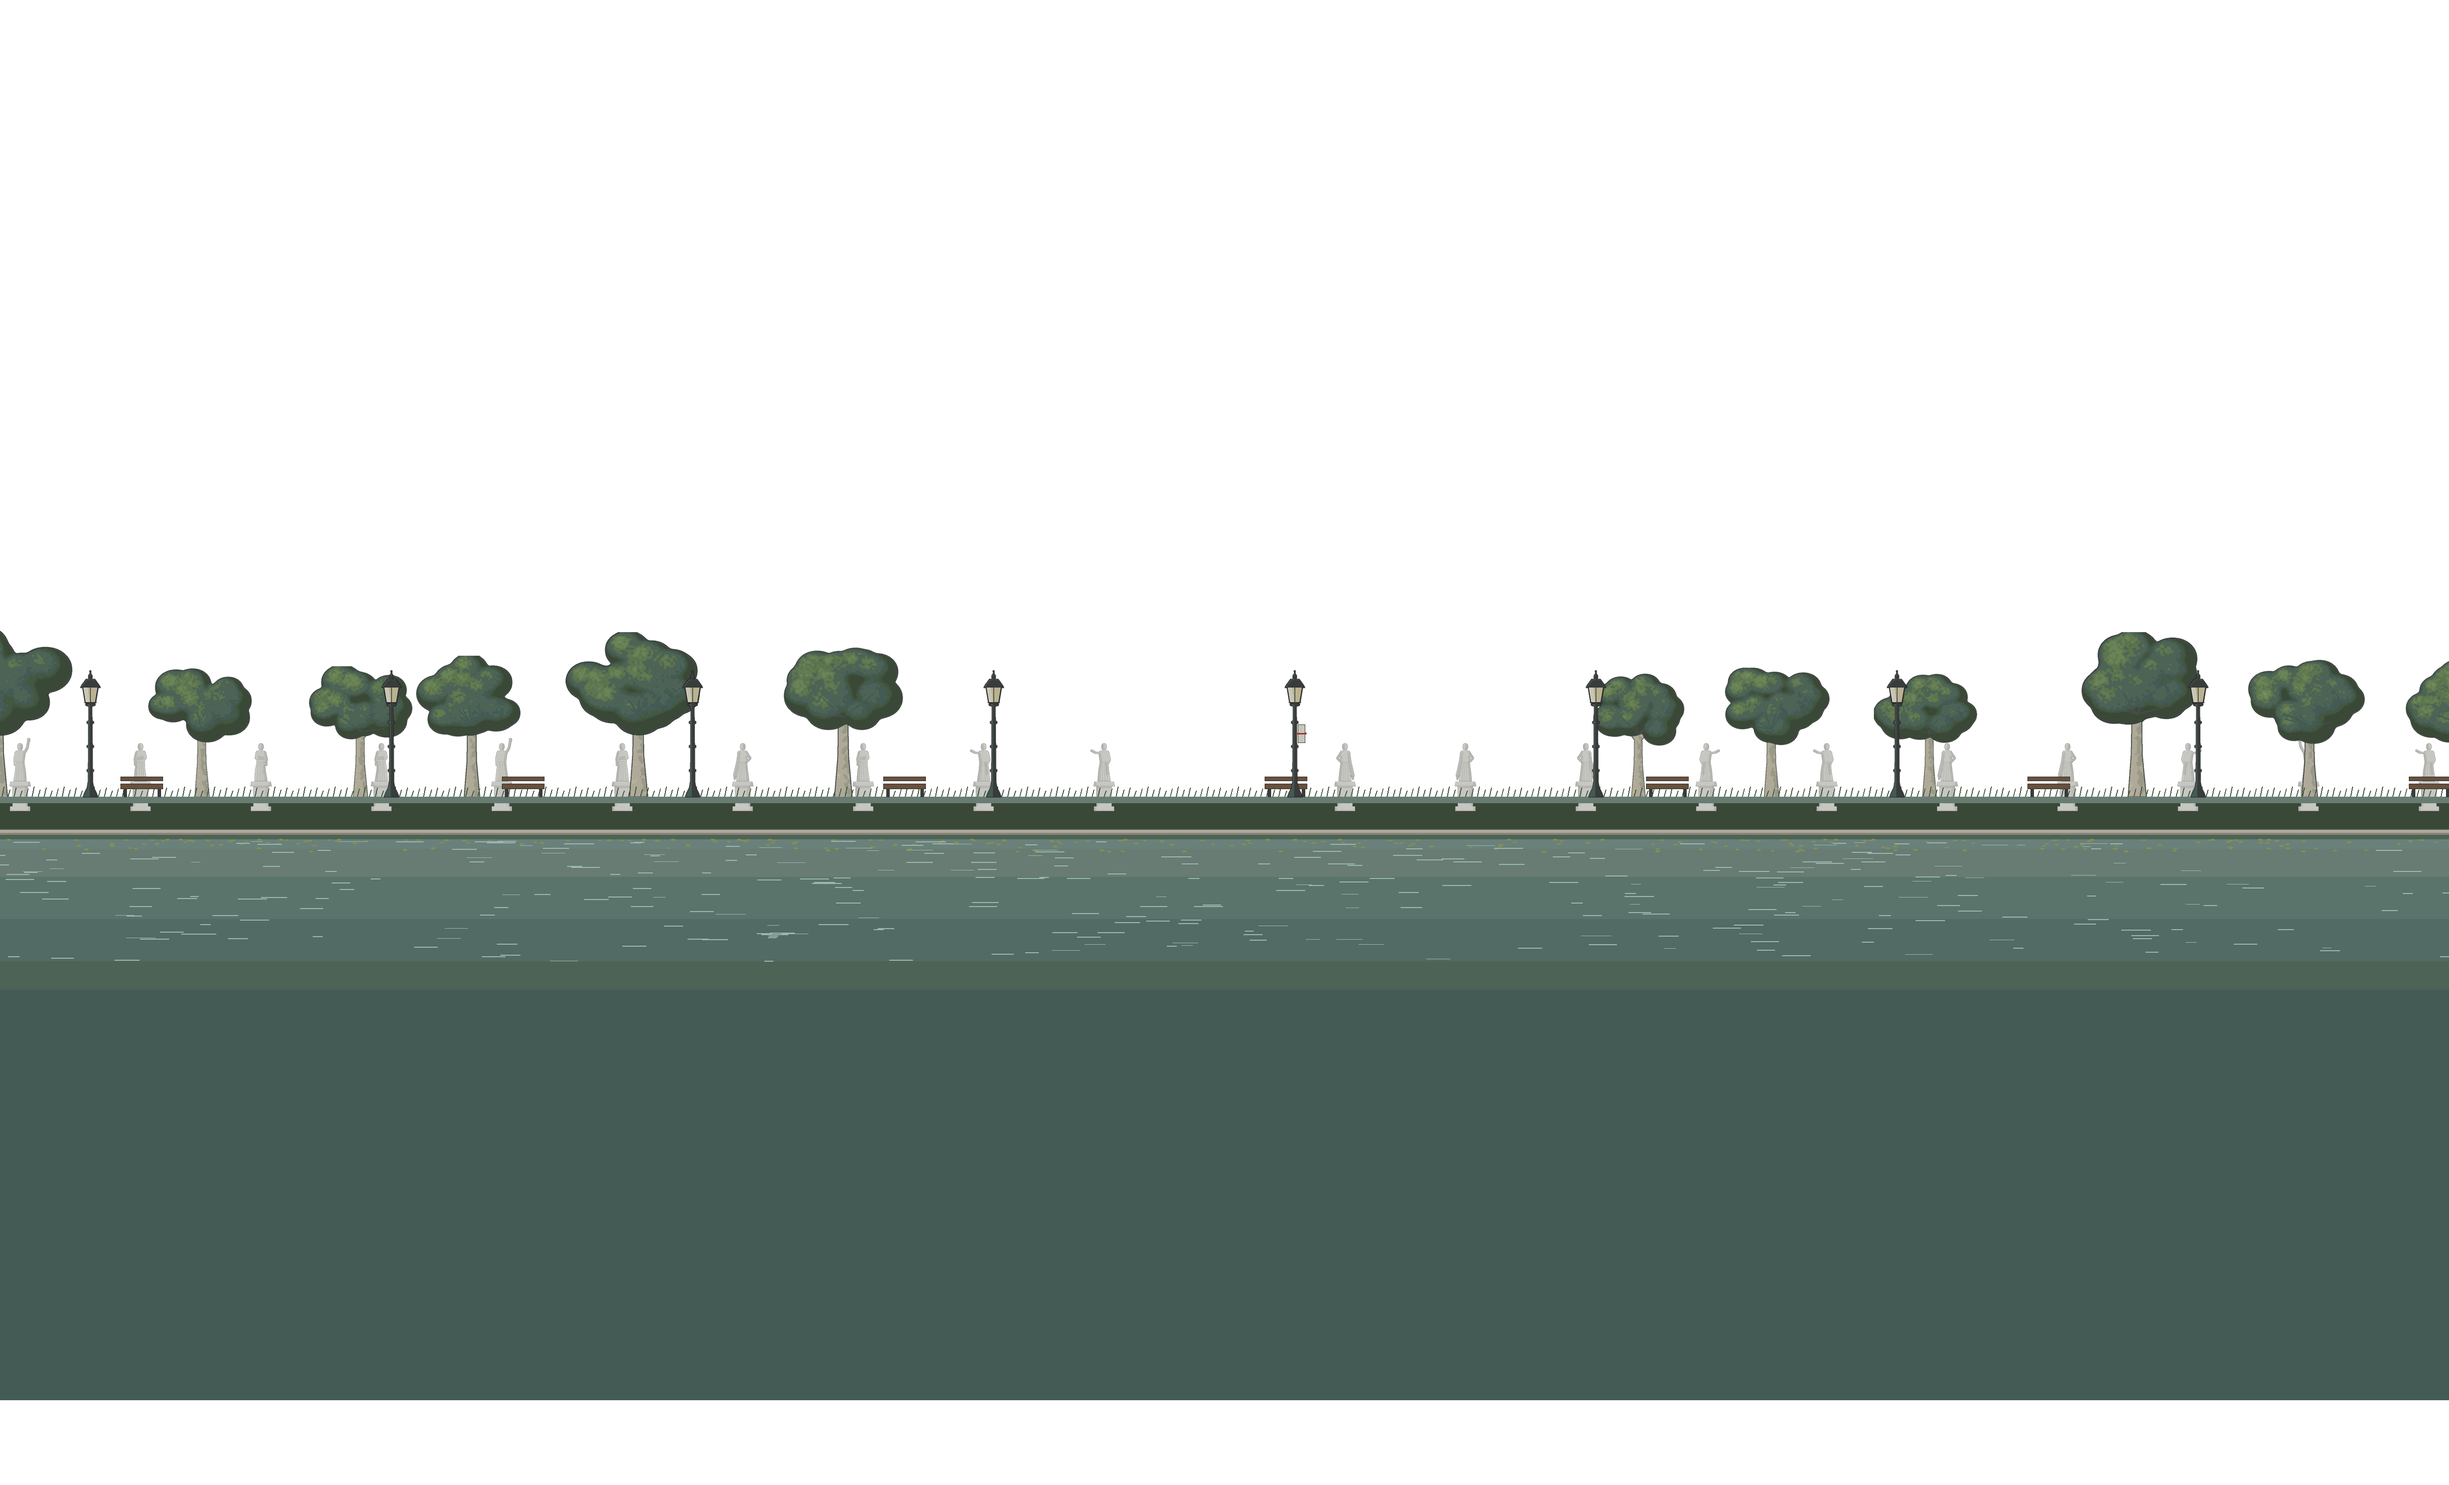
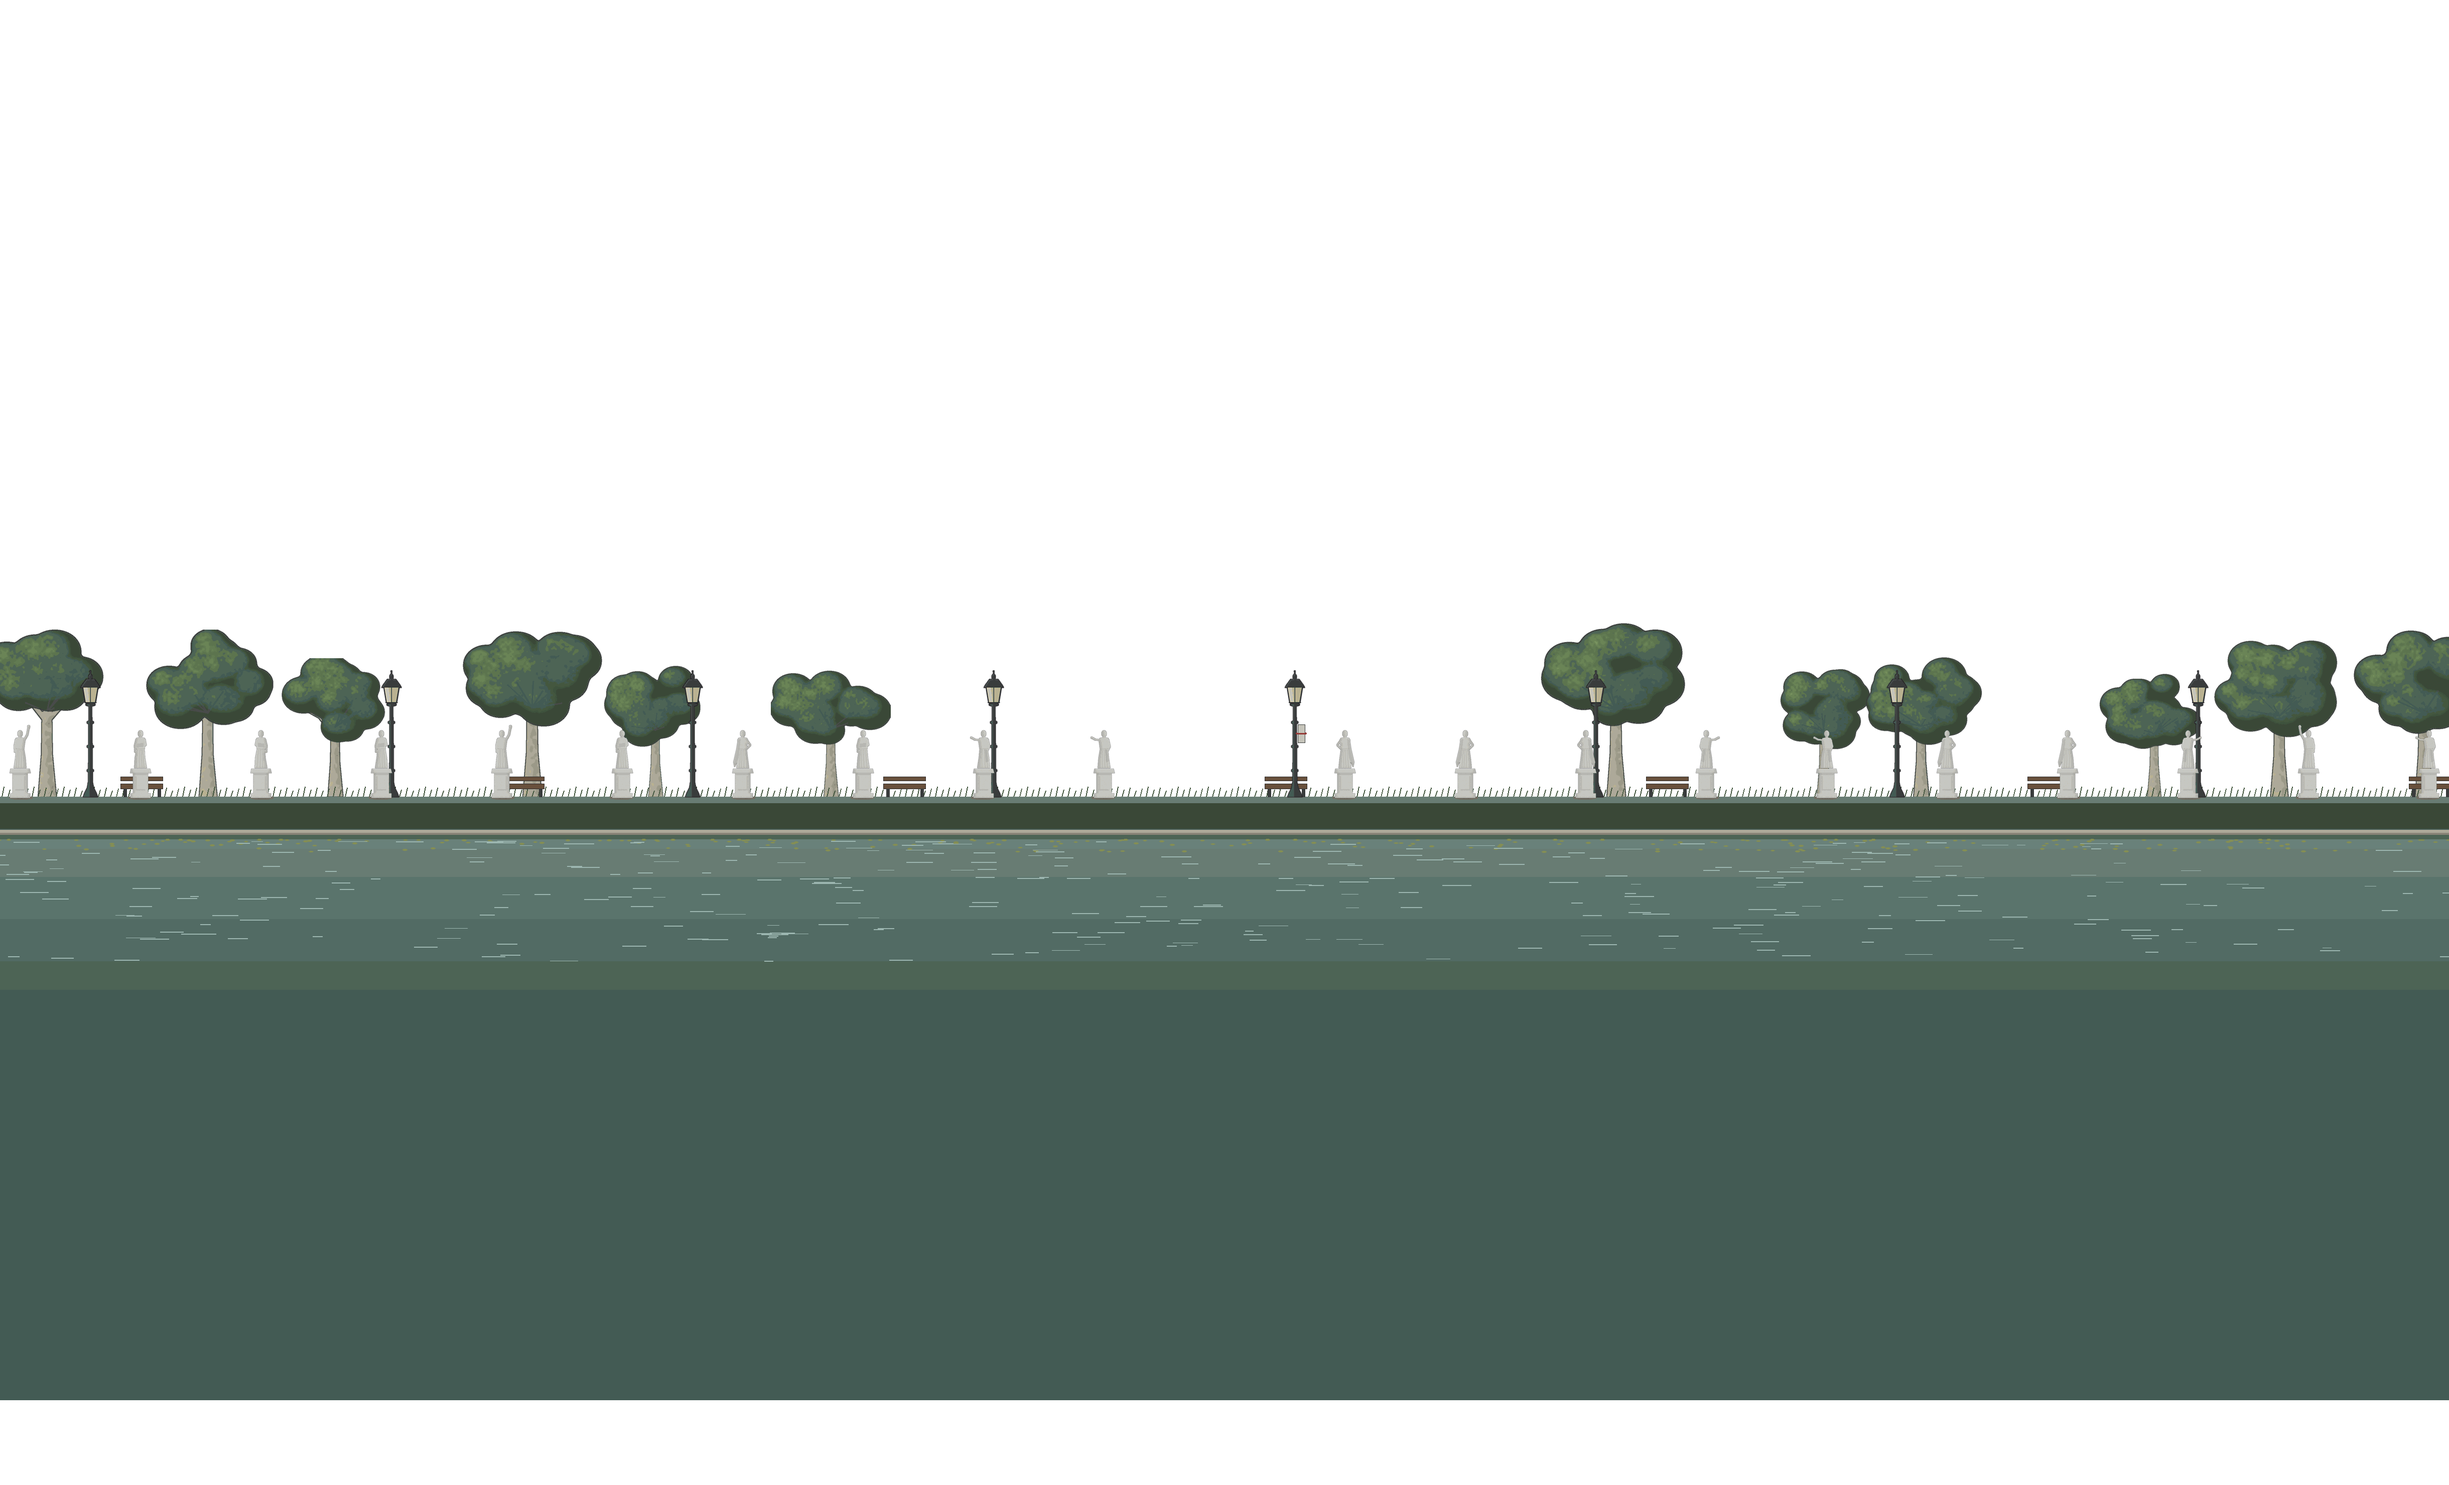
Padova: le statue della seconda fila stanno davanti al vialetto del parco
Il vialetto si disegnava dopo le statue e le tagliava a metà del piedistallo.
Ora le statue stanno sul vialetto, si disegnano per ultime e coprono lampioni,
panchine, passanti e bar, che passano appena dietro lo strato del prato.

Claude-Session: https://claude.ai/code/session_01Bf1d2rFJnp9n4pFf7DSqn4

diff --git a/src/shared/stages.ts b/src/shared/stages.ts
@@ -802,13 +802,13 @@ export const STAGES: Record<string, StageSpec> = {
         // Sulle punte delle lastre delle statue
         pigeons: [{ x: 485, y: 330 }, { x: 1435, y: 330 }, { x: 235, y: 380 }, { x: 1685, y: 380 }],
         // Lo sfondo è salito per stare dietro il piano dell'isola (#300 e #378, LIFT in padova.py): prato e bar 96 px, strada 82
-        walkers: { y: 414, parallax: 0.75, count: 14, umbrellas: true },
+        walkers: { y: 414, parallax: 0.74, count: 14, umbrellas: true }, // appena dietro lo strato del prato: le statue della seconda fila li coprono (#378)
         // Il tram e il traffico passano sulla strada davanti ai portici (#278): più giù le piazze li coprirebbero
         vehicles: { y: 406, parallax: 0.5, everyMs: 23000, kind: "tram" },
         traffic: { y: 406, parallax: 0.5, everyMs: 2600, kinds: ["auto", "auto", "auto", "vespa", "vespa", "furgone", "bici", "bus"] },
         flyers: { y: 90, parallax: 0.6, count: 7 }, // rondini sul Prato, di notte i pipistrelli
         planes: { y: -60, everyMs: 75000 },
-        bar: { x: 120, y: 414, parallax: 0.8, tables: 3, spacing: 72 }, // il chiosco dello spritz sul prato: a terra come panchine e passanti (#378)
+        bar: { x: 120, y: 414, parallax: 0.74, tables: 3, spacing: 72 }, // il chiosco dello spritz sul prato: a terra come panchine e passanti (#378)
         daycycle: {
           cycleMs: 240000, // un giorno intero in 4 minuti: alba, giorno, tramonto e notte
           startAt: 0.8, // si parte poco dopo l'alba

diff --git a/tools/arene/padova.py b/tools/arene/padova.py
@@ -3055,12 +3055,7 @@ def lawn(t):
         y = base - 6 + rng_w.uniform(0, 1) ** 1.3 * 120
         t.line([(x, y), (x + rng_w.uniform(8, 30), y)], fill=(156, 182, 176, 255), width=0.6 + rng_w.random() * 0.6)
     # memmia_vista() non serve più: il canale dietro l'isola con le statue e i ponticelli ora sta davanti a questo strato
-    # la seconda fila di statue sul prato (la fascia chiara della canaletta non c'è più: Riccardo, #378)
-    for sx in range(-240, 2200, 120):
-        if abs(sx - 960) < 50:
-            rng.random()  # davanti al ponticello niente statua, ma la serie del caso resta la stessa
-            continue
-        small_statue(t, sx, base - 36, rng)
+    statue_rng = rand(11)  # le statue si disegnano alla fine (vedi sotto), con la loro serie del caso
     # platani, poi il vialetto, le panchine e i lampioni davanti
     for tx in range(-230, 2200, 160):  # più fitti dal #288
         x, r = tx + rng.randint(-40, 40), rng.randint(48, 70)
@@ -3081,6 +3076,13 @@ def lawn(t):
     px = -170 + 300 * 4
     t.rect(px + 3, base - 122, px + 10, base - 104, fill=(214, 206, 182, 255), ink=True, width=0.6, ink_col=(60, 56, 50, 255))
     t.line([(px + 2, base - 113), (px + 11, base - 113)], fill=(150, 60, 56, 255), width=1.4)
+    # la seconda fila di statue sul prato, per ultima (#378, Riccardo): stanno davanti al vialetto, ai lampioni e
+    # alle panchine, quindi li coprono e non ne sono coperte
+    for sx in range(-240, 2200, 120):
+        if abs(sx - 960) < 50:
+            statue_rng.random()  # davanti al ponticello niente statua, ma la serie del caso resta la stessa
+            continue
+        small_statue(t, sx, base - 49, statue_rng)  # sul vialetto, come lampioni e panchine: sotto c'è il prato dell'ansa
 
 
 PLAN = (960, 520, 880, 50)  # la pianta dell'isola (#378, chiesto da Riccardo): mezzo ovale dietro il bordo dritto
